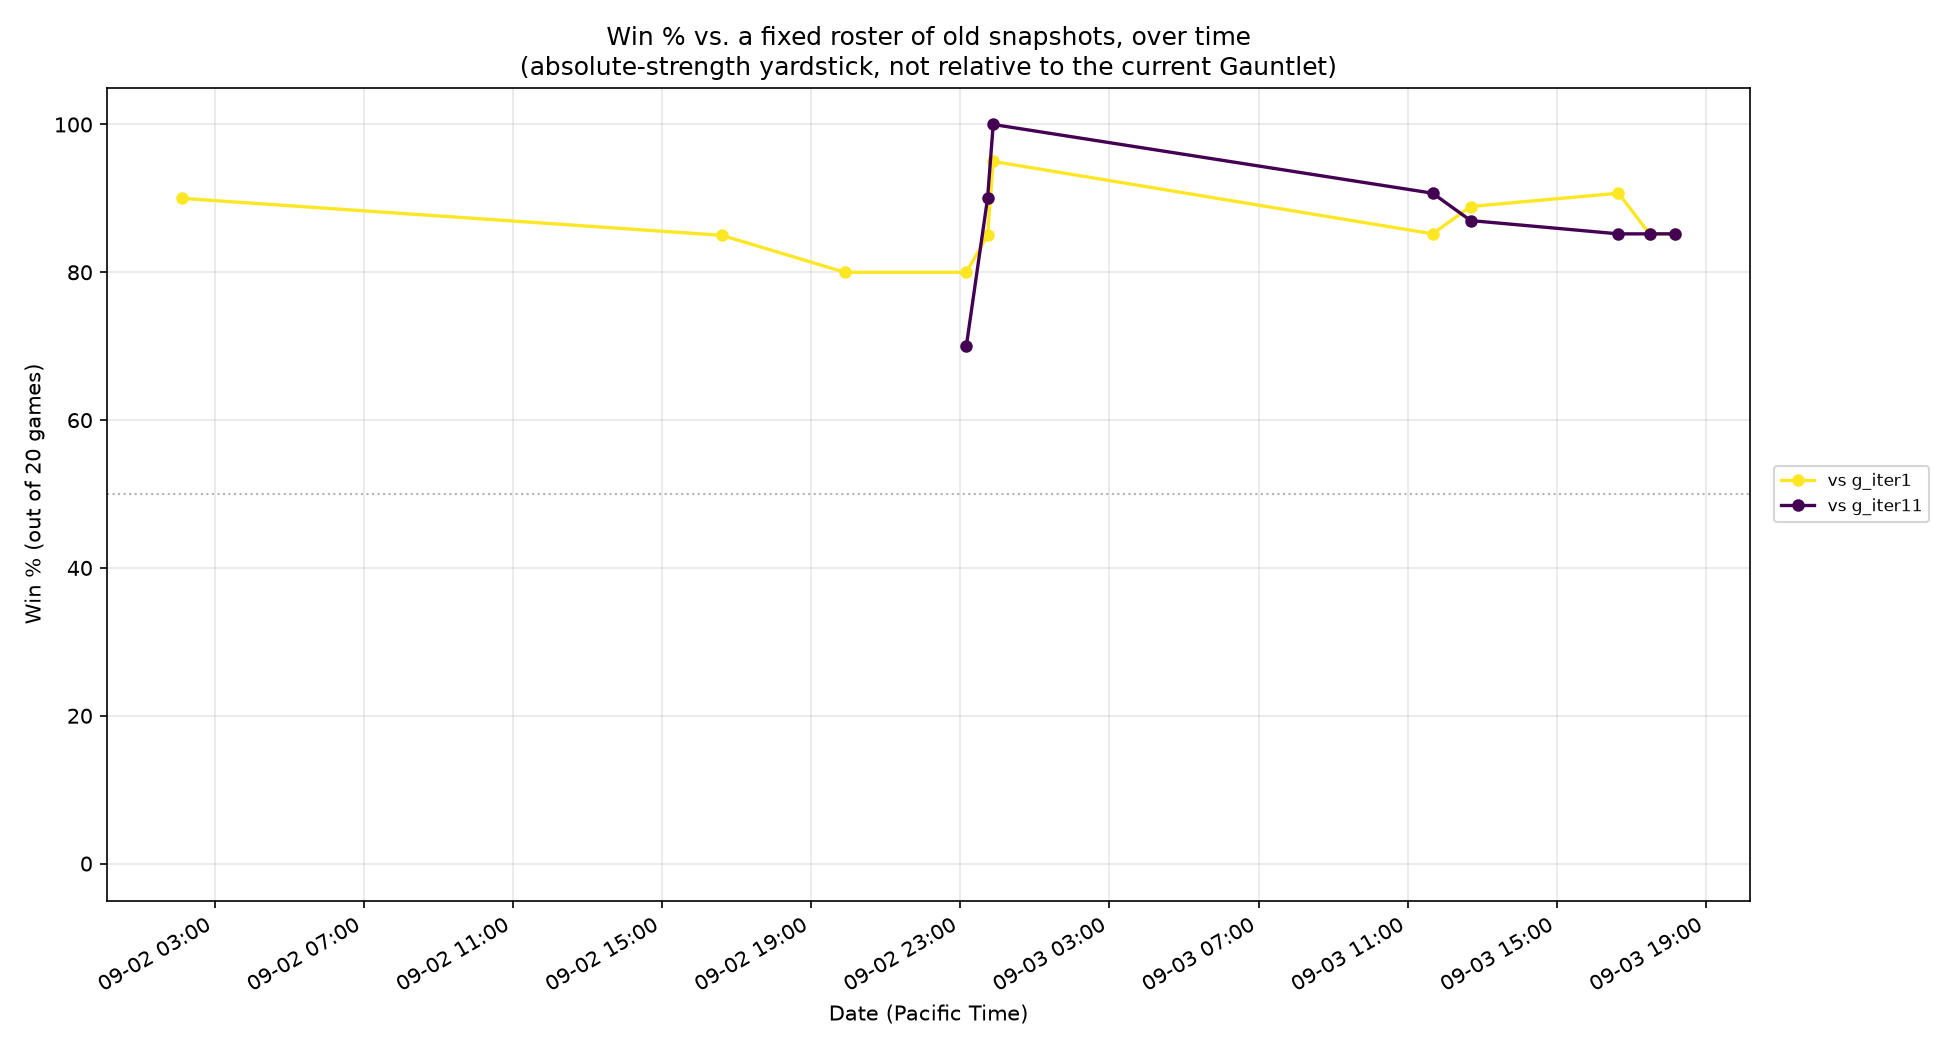
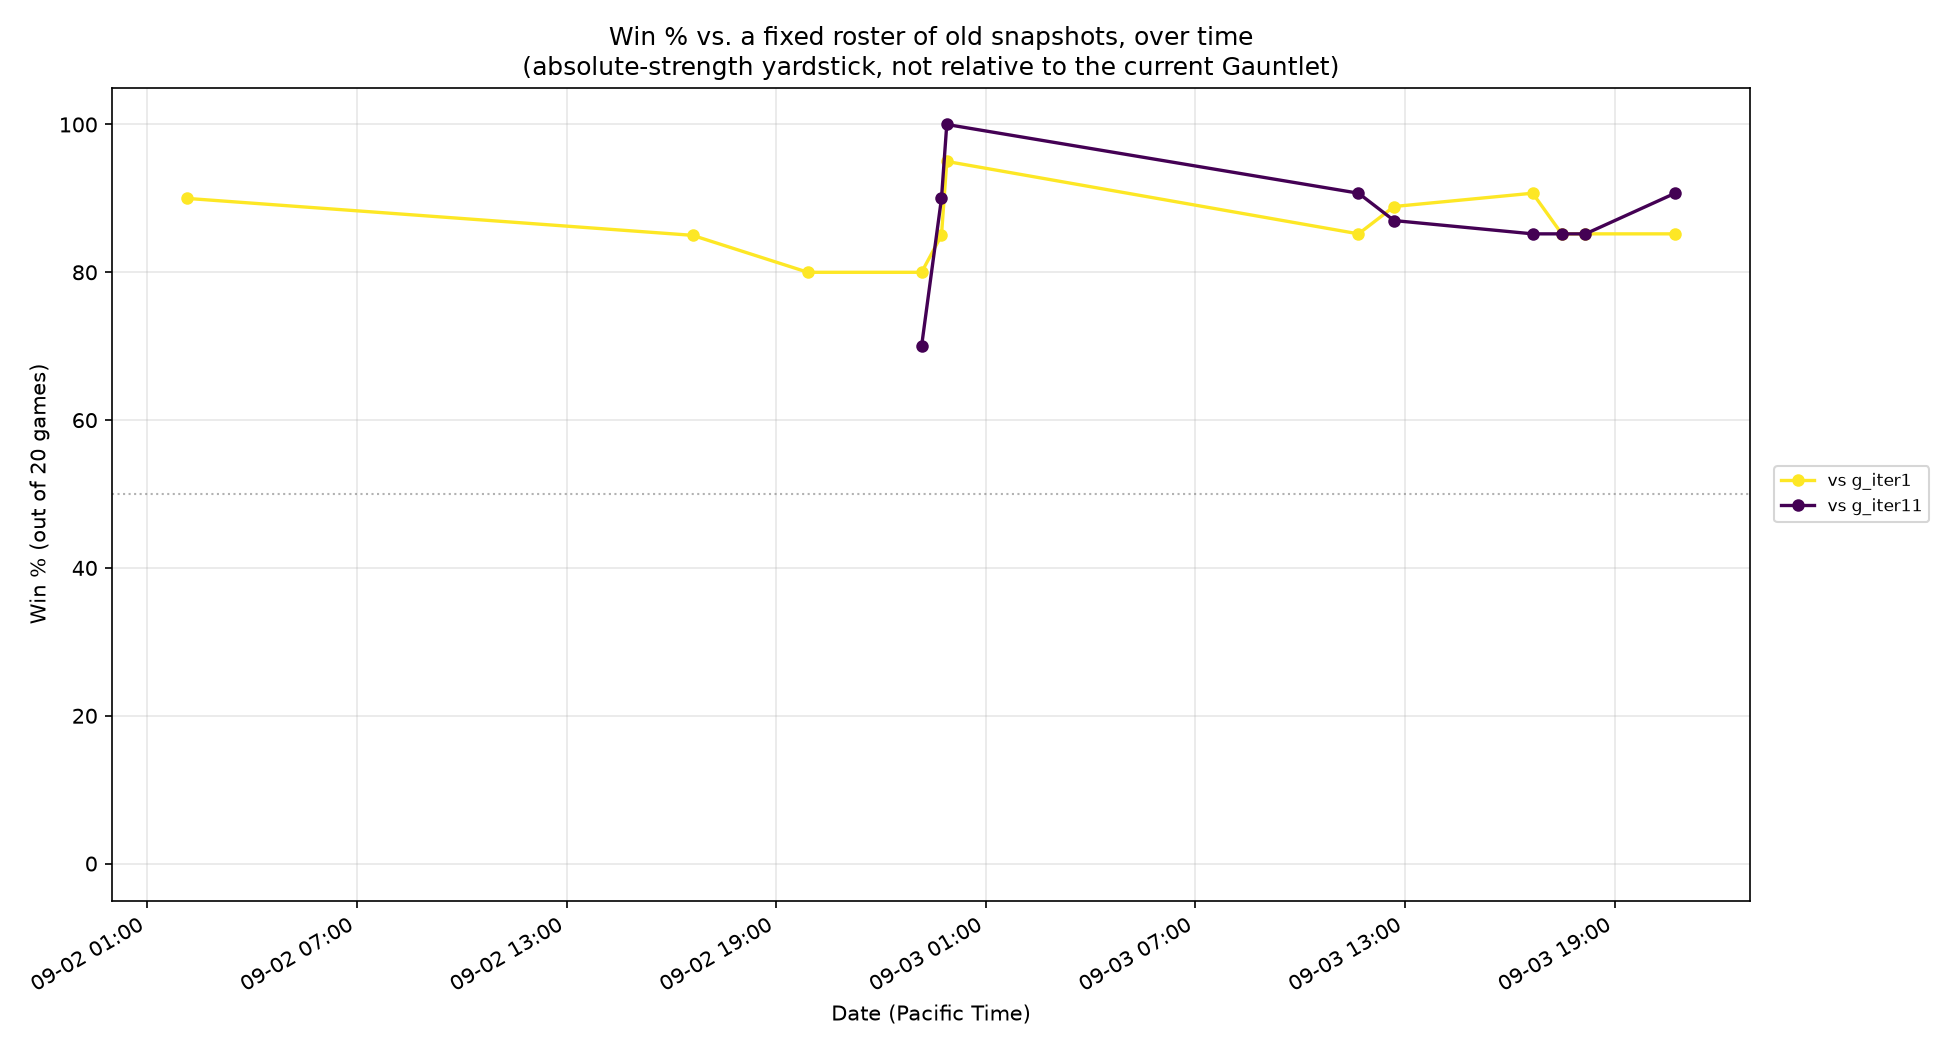
Record Iteration 99 on vs_old_bots; identify the trap wall as the next cause
vs_old_bots 95/108 = 88.0%, unchanged -- flat as expected from a lopsided
instrument. All four charts regenerated.

What the accept bought: the three fixed wipes roughly doubled survival
(thunderdome|B 81->172, tiny|B 65->131, thunderdome|A 45->111) and all three
still lost. Time, not games, consistent with wins staying 5/162.

New binding cause, traced on knifefight under the accepted build: our spawns
are now 25 vs their 29 (was 4 vs 16, so the King fix worked), but we take
TriggerTrap x4 at round 6 plus deaths and stuns, and more at rounds 8, 9, 13.
They place a trap almost every round from round 2. Their trap wall is what
kills us now.

Checked whether this repeats the Iteration 77 error: it does not. Trap-zone
avoidance (Iteration 69) was rejected on wins, so I re-read it on the
early-wipe counter -- 16% (25/158), identical to control. It genuinely does not
help the rush despite halving total deaths on long maps, because that design
only learns a zone AFTER a rat triggers a trap, far too slow for a 20-60 round
game.

Next hypothesis needs trap avoidance requiring no learning: on knifefight the
enemy traps sit in the corridor between two Kings five tiles apart, which is
knowable from map geometry at round 1.

Claude-Session: https://claude.ai/code/session_01Sgao6EtbbgQ6mM5ZhH5FGP

diff --git a/TRAINING_LOG.md b/TRAINING_LOG.md
@@ -6687,3 +6687,40 @@ wipes* (Iteration 99). The mechanism never changed. **Choosing the counter is
 as consequential as choosing the change**, and the counter to choose is the
 one that is upstream of how the games are actually lost and that has variance
 on the instrument that poses the threat.
+
+### Iteration 99 on vs_old_bots, and the next target
+
+    g_iter20: 46/54 = 85.2% vs g_iter1, 49/54 = 90.7% vs g_iter11
+    overall 95/108 = 88.0%   (unchanged from the session baseline)
+
+Flat, as expected from a lopsided instrument. All four charts regenerated per
+the routine.
+
+**What the accepted change bought, precisely:** the three fixed wipes roughly
+doubled their survival — `thunderdome|B` 81 → 172, `tiny|B` 65 → 131,
+`thunderdome|A` 45 → 111 — and all three still lost. The fix buys time, not
+games, which is consistent with wins staying at 5/162.
+
+**The new binding cause, traced on `knifefight` under the accepted build:**
+
+    our spawns 25 vs their 29        (was 4 vs 16 -- the King fix worked)
+    rd 6:  TriggerTrap x4, DieAction, Damage, Stun
+    rd 8:  TriggerTrap x1
+    rd 9:  TriggerTrap x1, DieAction
+    rd 13: TriggerTrap x2, DieAction, Damage x2, Stun x2
+
+Production is now near parity; **their trap wall is what kills us.** They
+place a trap almost every round from round 2, and our rats walk into four of
+them in a single round.
+
+**Checked, and it is not a repeat of the Iteration 77 error.** Trap-zone
+avoidance (Iteration 69) was rejected on wins, so I re-read it on the
+early-wipe counter: **16% (25/158) — identical to control.** It genuinely
+does not help the rush, despite halving total deaths on long maps
+(67 → 31 on `hatefullattice`). The likely reason is structural: that design
+only learns a zone *after* a rat triggers a trap, which is far too slow for a
+game decided in 20-60 rounds.
+
+So the next hypothesis needs trap avoidance that requires no learning — the
+enemy traps on `knifefight` sit in the corridor between two Kings five tiles
+apart, which is knowable from map geometry alone at round 1.
